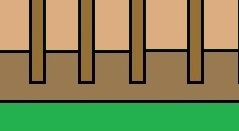
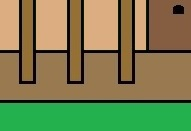
Updated the artwork for the inn

Changed region(s): [[0.5236, 0.0, 1.0, 0.6718], [0.3141, 0.0, 0.445, 0.6412], [0.0785, 0.0, 0.2094, 0.6412]]

diff --git a/utilz/constants/TileConstants.java b/utilz/constants/TileConstants.java
@@ -55,37 +55,39 @@ public class TileConstants {
         public static final int INN_14 = 46;
         public static final int INN_15 = 47;
         public static final int INN_16 = 48;
-        public static final int TAVERN_1 = 49;
-        public static final int TAVERN_2 = 50;
-        public static final int TAVERN_3 = 51;
-        public static final int TAVERN_4 = 52;
-        public static final int TAVERN_5 = 53;
-        public static final int TAVERN_6 = 54;
-        public static final int TAVERN_7 = 55;
-        public static final int TAVERN_8 = 56;
-        public static final int TAVERN_9 = 57;
-        public static final int TAVERN_10 = 58;
-        public static final int TAVERN_11 = 59;
-        public static final int TAVERN_12 = 60;
-        public static final int TAVERN_13 = 61;
-        public static final int TAVERN_14 = 62;
-        public static final int TAVERN_15 = 63;
-        public static final int WEAPON_SHOP_1 = 64;
-        public static final int WEAPON_SHOP_2 = 65;
-        public static final int WEAPON_SHOP_3 = 66;
-        public static final int WEAPON_SHOP_4 = 67;
-        public static final int WEAPON_SHOP_5 = 68;
-        public static final int WEAPON_SHOP_6 = 69;
-        public static final int WEAPON_SHOP_7 = 70;
-        public static final int WEAPON_SHOP_8 = 71;
-        public static final int WEAPON_SHOP_9 = 72;
-        public static final int WEAPON_SHOP_10 = 73;
-        public static final int WEAPON_SHOP_11 = 74;
-        public static final int WEAPON_SHOP_12 = 75;
+        public static final int INN_17 = 49;
+        public static final int INN_18 = 50;
+        public static final int TAVERN_1 = 51;
+        public static final int TAVERN_2 = 52;
+        public static final int TAVERN_3 = 53;
+        public static final int TAVERN_4 = 54;
+        public static final int TAVERN_5 = 55;
+        public static final int TAVERN_6 = 56;
+        public static final int TAVERN_7 = 57;
+        public static final int TAVERN_8 = 58;
+        public static final int TAVERN_9 = 59;
+        public static final int TAVERN_10 = 60;
+        public static final int TAVERN_11 = 61;
+        public static final int TAVERN_12 = 62;
+        public static final int TAVERN_13 = 63;
+        public static final int TAVERN_14 = 64;
+        public static final int TAVERN_15 = 65;
+        public static final int WEAPON_SHOP_1 = 66;
+        public static final int WEAPON_SHOP_2 = 67;
+        public static final int WEAPON_SHOP_3 = 68;
+        public static final int WEAPON_SHOP_4 = 69;
+        public static final int WEAPON_SHOP_5 = 70;
+        public static final int WEAPON_SHOP_6 = 71;
+        public static final int WEAPON_SHOP_7 = 72;
+        public static final int WEAPON_SHOP_8 = 73;
+        public static final int WEAPON_SHOP_9 = 74;
+        public static final int WEAPON_SHOP_10 = 75;
+        public static final int WEAPON_SHOP_11 = 76;
+        public static final int WEAPON_SHOP_12 = 77;
     } //ID
 
     public class IMG {
-        public static BufferedImage[] ART = new BufferedImage[76];
+        public static BufferedImage[] ART = new BufferedImage[78];
 
         public static void LoadImages() {
             ART[ID.GRASS] = HelperMethods.LoadImage("GrassBlock.jpg");
@@ -137,6 +139,8 @@ public class TileConstants {
             ART[ID.INN_14] = HelperMethods.LoadImage("/buildings/inn/inn14.jpg");
             ART[ID.INN_15] = HelperMethods.LoadImage("/buildings/inn/inn15.jpg");
             ART[ID.INN_16] = HelperMethods.LoadImage("/buildings/inn/inn16.jpg");
+            ART[ID.INN_17] = HelperMethods.LoadImage("/buildings/inn/inn17.jpg");
+            ART[ID.INN_18] = HelperMethods.LoadImage("/buildings/inn/inn18.jpg");
             ART[ID.TAVERN_1] = HelperMethods.LoadImage("/buildings/tavern/Tavern1.jpg");
             ART[ID.TAVERN_2] = HelperMethods.LoadImage("/buildings/tavern/Tavern2.jpg");
             ART[ID.TAVERN_3] = HelperMethods.LoadImage("/buildings/tavern/Tavern3.jpg");
